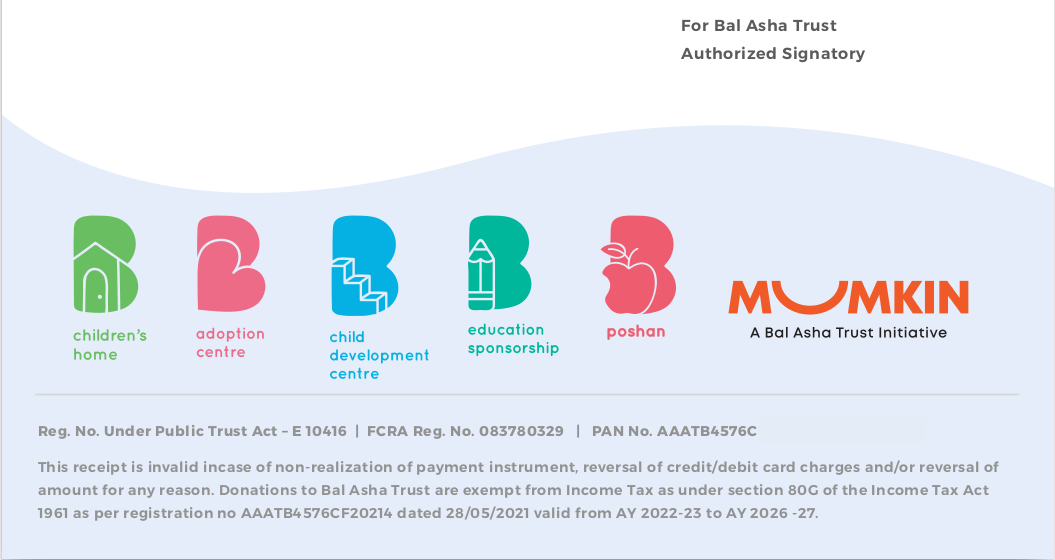
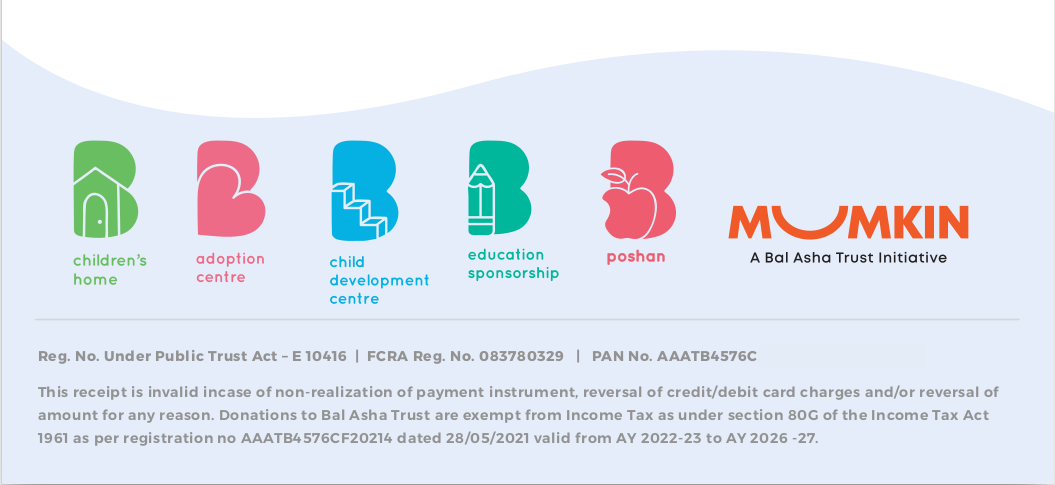
Replace signatures in receipts with system-generated receipt text

diff --git a/app/controllers/donations_controller.rb b/app/controllers/donations_controller.rb
@@ -1,6 +1,8 @@
 class DonationsController < ApplicationController
   before_action :set_donation, only: [:edit, :update, :destroy]
 
+  SYSTEM_RECEIPT_TEXT = 'This is a system-generated receipt that does not require a signature.'.freeze
+
   def index
     @search = Donation.ransack(params[:q])
     @search.sorts = ['date DESC', 'id DESC'] if @search.sorts.empty?
@@ -20,11 +22,12 @@ class DonationsController < ApplicationController
       format.pdf do
         if params[:new].present? && !@donation.kind?
           render pdf: "receipt", layout: nil, template: "donations/non_kind_receipt.html.haml",
+                 locals: { system_receipt_text: SYSTEM_RECEIPT_TEXT },
                  margin: { bottom: 0, left: 0, right: 0, top: 0 }, show_as_html: params.key?('debug')
           return
         end
 
-        render pdf: "receipt", layout: "pdf.html",
+        render pdf: "receipt", layout: "pdf.html", footer: { center: SYSTEM_RECEIPT_TEXT },
                template: "donations/#{@donation.kind? ? 'kind' : 'cash'}_receipt.html.haml"
       end
     end
